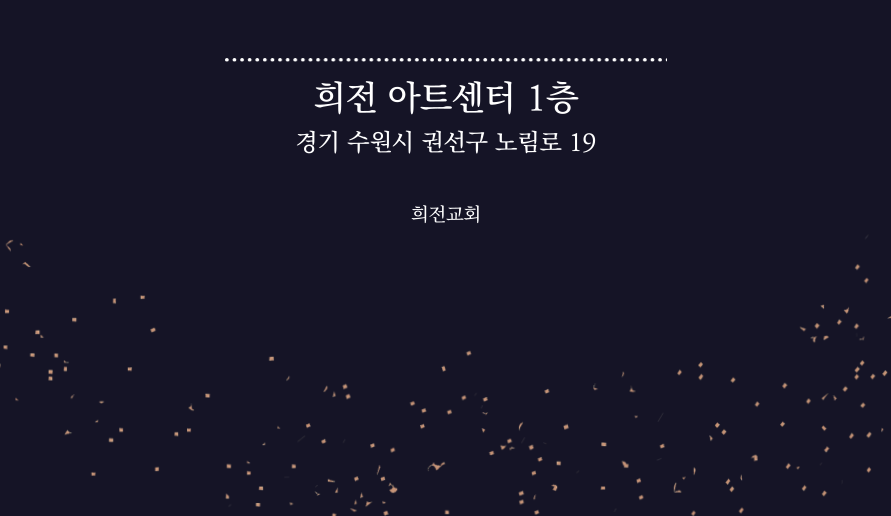
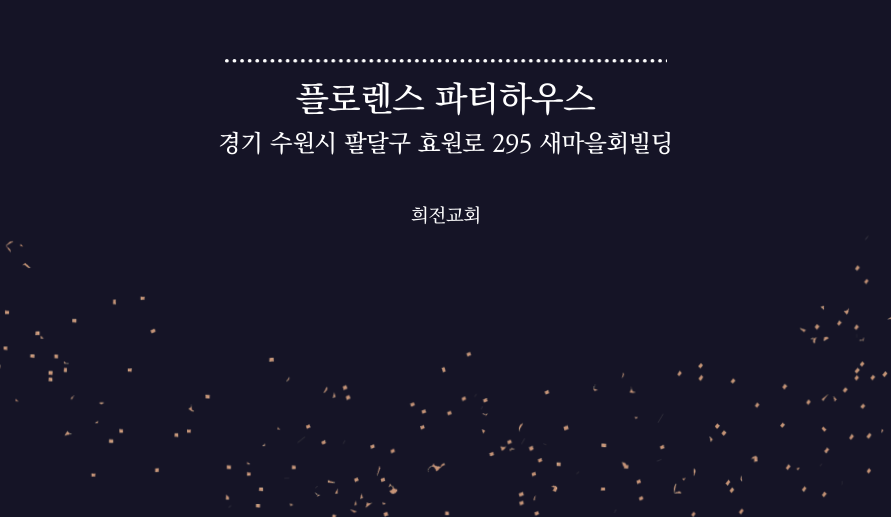
fix: 컨텐츠 수정

diff --git a/src/main/resources/templates/invitation.html b/src/main/resources/templates/invitation.html
@@ -104,11 +104,11 @@
   <img class="align" src="/img/program.png">
 
   <img class="align" src="/img/location1.png">
-  <a href="https://map.naver.com/p/entry/place/1033986121?c=17.62,0,0,0,dh">
+  <a href="https://map.naver.com/p/entry/place/12772830?c=17.32,0,0,0,dh">
     <img class="align" src="/img/map.jpg" style="width: 100%">
   </a>
   <div style="text-align: right; margin: 15px;">
-    <a href="https://map.naver.com/p/entry/place/1033986121?c=17.62,0,0,0,dh" style="color: white; ">
+    <a href="https://map.naver.com/p/entry/place/12772830?c=17.32,0,0,0,dh" style="color: white; ">
       <span>>> 지도보기</span>
     </a>
   </div>

diff --git a/src/main/java/com/project/invitation/controller/InvitationController.java b/src/main/java/com/project/invitation/controller/InvitationController.java
@@ -7,6 +7,11 @@ import org.springframework.web.bind.annotation.GetMapping;
 @Controller
 public class InvitationController {
 
+    @GetMapping("/")
+    public String index(Model model) {
+        model.addAttribute("data","hello");
+        return "invitation";
+    }
     @GetMapping("invitation")
     public String invitation(Model model) {
         model.addAttribute("data","hello");
